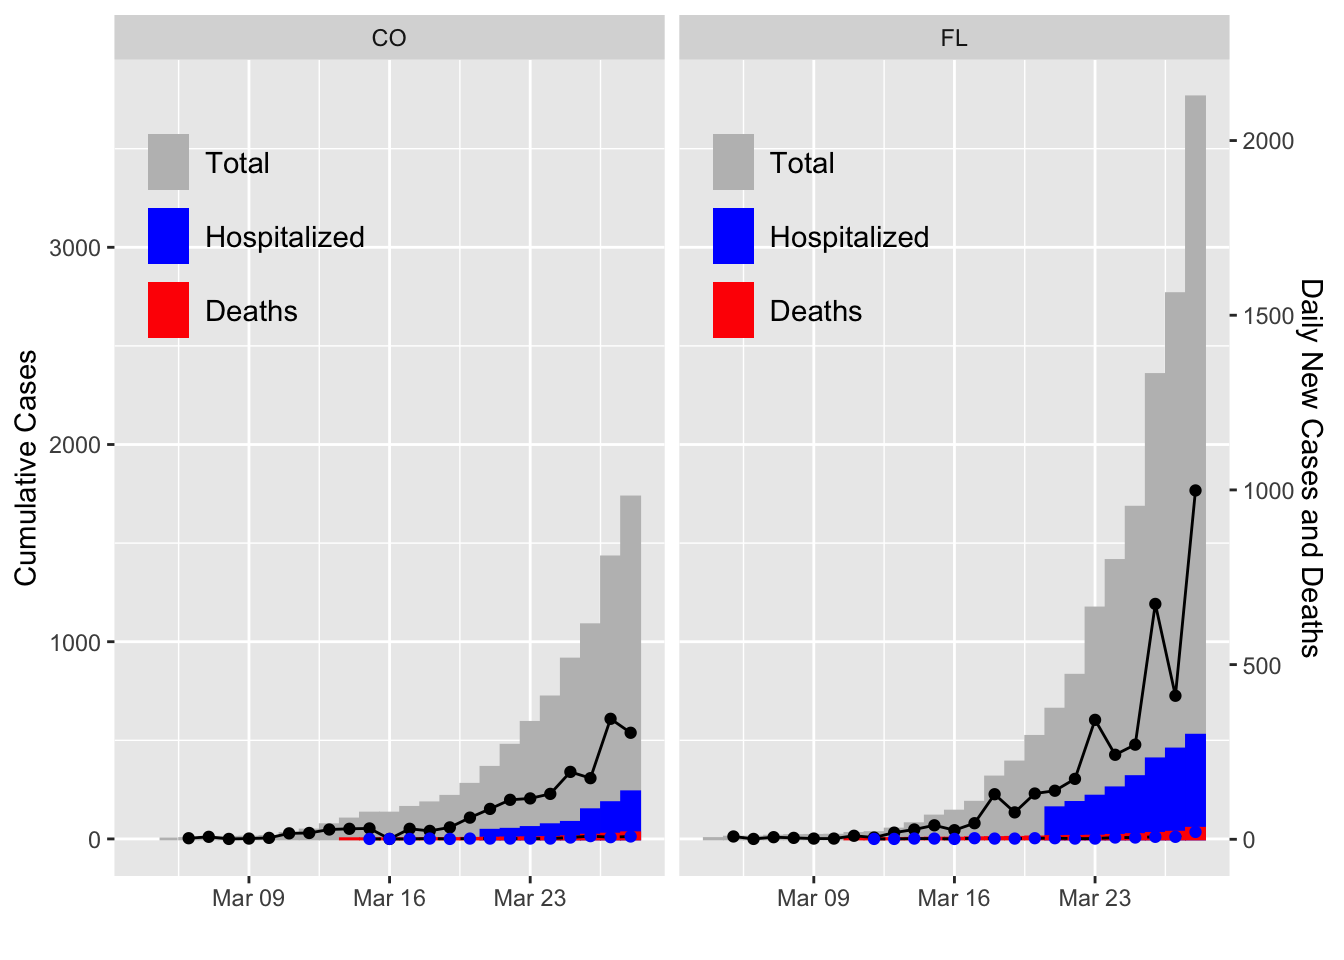
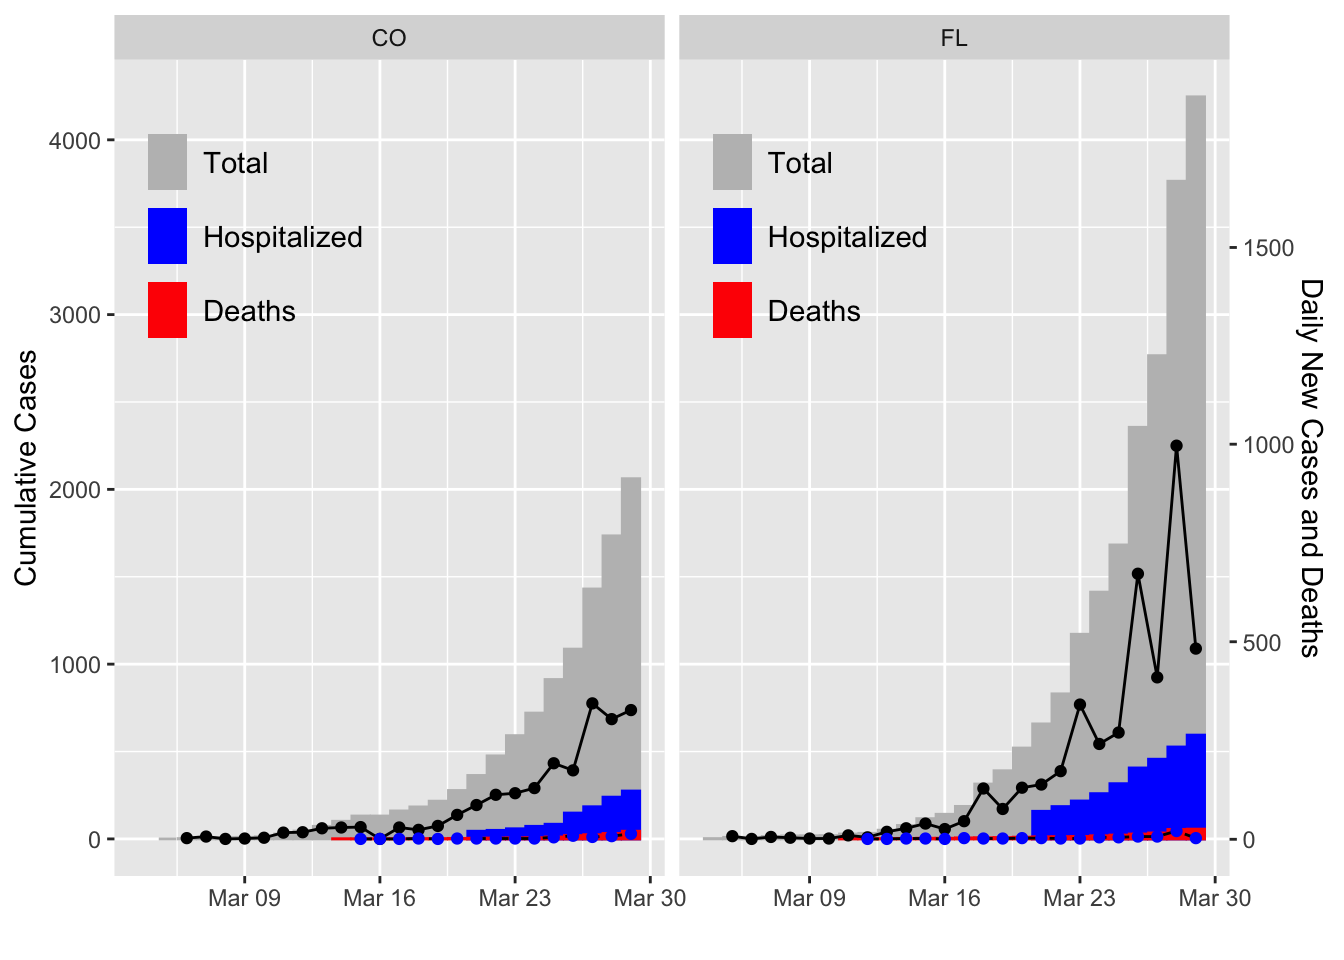
update webpage

diff --git a/docs/data.html b/docs/data.html
@@ -299,6 +299,9 @@ $(document).ready(function () {
 <li>
   <a href="ny_plot.html">NY Plots</a>
 </li>
+<li>
+  <a href="cz_plot.html">CZ Plots</a>
+</li>
       </ul>
       <ul class="nav navbar-nav navbar-right">
         
@@ -325,40 +328,40 @@ world</code></pre>
 <p>Here is an example from <code>states</code>:</p>
 <pre class="r"><code>head(states)</code></pre>
 <pre><code>##         date region positive negative pending hospitalized
-## 1 2020-03-28     AK       85     2836      NA            5
-## 2 2020-03-28     AL      696     4184      NA           NA
-## 3 2020-03-28     AR      404     2938       0           48
-## 4 2020-03-28     AS        0       NA       0           NA
-## 5 2020-03-28     AZ      873     7455      21           NA
-## 6 2020-03-28     CA     4643    20549   64400         1034
+## 1 2020-03-29     AK      102     3232      NA            6
+## 2 2020-03-29     AL      806     4184      NA           NA
+## 3 2020-03-29     AR      426     3027      NA           48
+## 4 2020-03-29     AS       NA       NA      NA           NA
+## 5 2020-03-29     AZ      919    12953      NA           78
+## 6 2020-03-29     CA     5708    20549   64400         1034
 ##   death total.tests
-## 1     2        2921
-## 2     3        4880
-## 3     5        3342
+## 1     2        3334
+## 2     4        4990
+## 3     6        3453
 ## 4     0           0
-## 5    15        8349
-## 6   101       89592
+## 5    17       13872
+## 6   123       90657
 ##                                       hash totalTestResults
-## 1 edb7e6bcde715f8bbea31547e99aa8b4712ea5fb             2921
-## 2 c9986a845bd2f8f9c9a4294a8e5d66a01ee6aadf             4880
-## 3 47d05acbbf2fbb56ddd9c44c3b9e204d10f050c3             3342
-## 4 c6fae61e10e1a1154e848a52a3665304ec76dd53                0
-## 5 9b04c4c073cb904f606bb9efb2ac77c8ecc810cd             8328
-## 6 399721733fa1eeda46e39c0158322c44fb1d985d            25192
+## 1 d4c0789e67f59e98176a9ea96200ed348161c6d4             3334
+## 2 9dbf0b598d35897b1f6857899d0a834990f4ec51             4990
+## 3 2c8ed5059d37cc0aa0d20f4f3066a64db930c6c5             3453
+## 4 f2050b47409f64a09bb4e959284c05d25eca8832                0
+## 5 14deca609d3762fb4b92807785e2b9c7015661e6            13872
+## 6 c364ec885909accfd4baf8e2d329903900870ba9            26257
 ##   fips deathIncrease hospitalizedIncrease negativeIncrease
-## 1   02             1                    2              517
-## 2   01             0                    0                0
-## 3   05             2                    0             1393
+## 1   02             0                    1              396
+## 2   01             1                    0                0
+## 3   05             1                    0               89
 ## 4   60             0                    0                0
-## 5   04             2                    0                0
-## 6   06            23                  288             3169
+## 5   04             2                   78             5498
+## 6   06            22                    0                0
 ##   positiveIncrease totalTestResultsIncrease
-## 1               16                      533
-## 2              109                      109
-## 3               23                     1416
+## 1               17                      413
+## 2              110                      110
+## 3               22                      111
 ## 4                0                        0
-## 5              137                      137
-## 6              764                     3933</code></pre>
+## 5               46                     5544
+## 6             1065                     1065</code></pre>
 <div id="subsetting-data" class="section level1">
 <h1>Subsetting data</h1>
 <pre class="r"><code># Just WA

diff --git a/docs/cz_plot.html b/docs/cz_plot.html
@@ -11,7 +11,7 @@
 
 
 
-<title>Plots</title>
+<title>CZ Plots</title>
 
 <script src="site_libs/jquery-1.11.3/jquery.min.js"></script>
 <meta name="viewport" content="width=device-width, initial-scale=1" />
@@ -314,29 +314,31 @@ $(document).ready(function () {
 
 
 
-<h1 class="title toc-ignore">Plots</h1>
+<h1 class="title toc-ignore">CZ Plots</h1>
 
 </div>
 
 
-<div id="functions" class="section level1">
-<h1>Functions</h1>
-<ul>
-<li><code>plot2()</code> a basic plot of total, hospitalized, and deaths. First argument is a data object (states, italy, world or subset of these) and second argument is a region (can be partial). Use ?plot2 to read the help page.</li>
-</ul>
+<div id="czechia" class="section level2">
+<h2>Czechia</h2>
+<p><img src="cz_plot_files/figure-html/cz_plot-1.png" width="768" /></p>
+<p><img src="cz_plot_files/figure-html/cz_plot2-1.png" width="768" /></p>
 </div>
-<div id="example-of-making-plots" class="section level1">
-<h1>Example of Making Plots</h1>
-<pre class="r"><code>library(CoV19)
-plot2(italy, &quot;Lomb&quot;, decorate=TRUE)</code></pre>
-<p><img src="plots_files/figure-html/unnamed-chunk-1-1.png" width="672" /></p>
-<pre class="r"><code>plot2(states, c(&quot;WA&quot;,&quot;CA&quot;))</code></pre>
-<p><img src="plots_files/figure-html/unnamed-chunk-2-1.png" width="672" /></p>
-<pre class="r"><code>plot2(states, c(&quot;NY&quot;,&quot;NJ&quot;,&quot;PA&quot;,&quot;MA&quot;))</code></pre>
-<p><img src="plots_files/figure-html/unnamed-chunk-3-1.png" width="672" /></p>
-<p>Something is odd with the Hubei data in the JHU data set.</p>
-<pre class="r"><code>plot2(world, &quot;Hubei China&quot;, decorate=TRUE)</code></pre>
-<p><img src="plots_files/figure-html/unnamed-chunk-4-1.png" width="672" /></p>
+<div id="poland" class="section level2">
+<h2>Poland</h2>
+<p><img src="cz_plot_files/figure-html/pl_plot-1.png" width="768" /></p>
+<p><img src="cz_plot_files/figure-html/pl_plot2-1.png" width="768" /></p>
+</div>
+<div id="austria" class="section level2">
+<h2>Austria</h2>
+<p>Note, Austria borders Northern Italy (where the outbreak started). There is a lot of tourist traffic from Austria to Northern Italy, so it’s expected that their numbers are much higher than Czechia and Poland.</p>
+<p><img src="cz_plot_files/figure-html/au_plot-1.png" width="768" /></p>
+<p><img src="cz_plot_files/figure-html/au_plot2-1.png" width="768" /></p>
+</div>
+<div id="germany" class="section level2">
+<h2>Germany</h2>
+<p><img src="cz_plot_files/figure-html/ge_plot-1.png" width="768" /></p>
+<p><img src="cz_plot_files/figure-html/ge_plot2-1.png" width="768" /></p>
 </div>
 
 

diff --git a/docs/epidemic_states.html b/docs/epidemic_states.html
@@ -299,6 +299,9 @@ $(document).ready(function () {
 <li>
   <a href="ny_plot.html">NY Plots</a>
 </li>
+<li>
+  <a href="cz_plot.html">CZ Plots</a>
+</li>
       </ul>
       <ul class="nav navbar-nav navbar-right">
         

diff --git a/docs/index.html b/docs/index.html
@@ -299,6 +299,9 @@ $(document).ready(function () {
 <li>
   <a href="ny_plot.html">NY Plots</a>
 </li>
+<li>
+  <a href="cz_plot.html">CZ Plots</a>
+</li>
       </ul>
       <ul class="nav navbar-nav navbar-right">
         

diff --git a/docs/ny_plot.html b/docs/ny_plot.html
@@ -299,6 +299,9 @@ $(document).ready(function () {
 <li>
   <a href="ny_plot.html">NY Plots</a>
 </li>
+<li>
+  <a href="cz_plot.html">CZ Plots</a>
+</li>
       </ul>
       <ul class="nav navbar-nav navbar-right">
         

diff --git a/docs/state_plots.html b/docs/state_plots.html
@@ -299,6 +299,9 @@ $(document).ready(function () {
 <li>
   <a href="ny_plot.html">NY Plots</a>
 </li>
+<li>
+  <a href="cz_plot.html">CZ Plots</a>
+</li>
       </ul>
       <ul class="nav navbar-nav navbar-right">
         

diff --git a/docs/walomb_plot.html b/docs/walomb_plot.html
@@ -299,6 +299,9 @@ $(document).ready(function () {
 <li>
   <a href="ny_plot.html">NY Plots</a>
 </li>
+<li>
+  <a href="cz_plot.html">CZ Plots</a>
+</li>
       </ul>
       <ul class="nav navbar-nav navbar-right">
         
